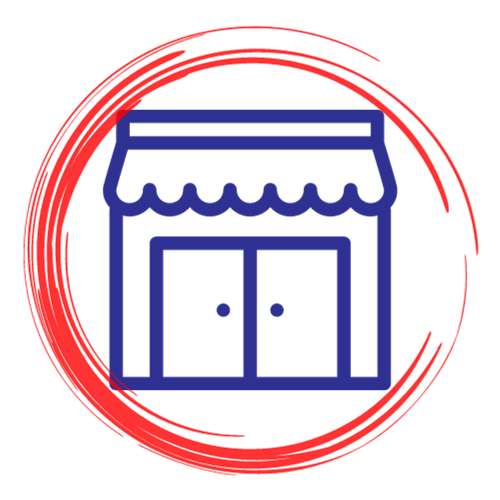
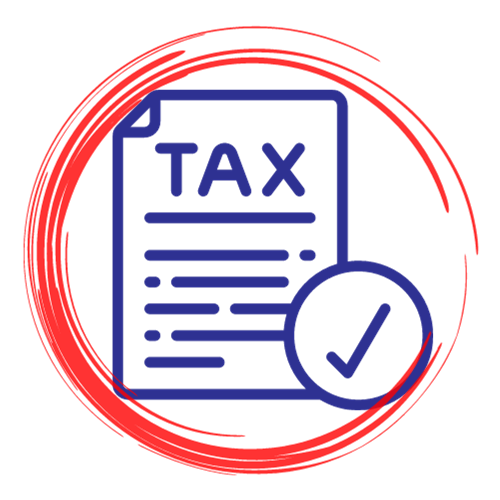
whys update

Changed region(s): [[0.18, 0.18, 0.87, 0.84]]

diff --git a/src/constants/data.js b/src/constants/data.js
@@ -3,13 +3,23 @@ import images from "./images";
 const services = [
     {
         imgUrl: images.serviceIcon1,
-        title: 'Business Advisory',
-        description: 'We’ll help you develop the right structure for your business that makes sure you are set up in the best way for where you want your business to go. Or if you have a good idea for a new business venture but don’t have expertise in the legal or financial aspects of creating a new business, we can help you:',
+        title: 'Tax Returns',
+        description: 'Navigating the intricacies of tax compliance can be a daunting task for individuals and businesses alike. At KAT Accounting Services, we provide comprehensive tax return services designed to alleviate the burden of tax preparation and ensure compliance while maximizing opportunities for deductions and savings.',
     },
     {
-        imgUrl: images.serviceIcon1,
-        title: 'Test 2',
-        description: 'Test ',
+        imgUrl: images.serviceIcon2,
+        title: 'Self Managed Super Funds',
+        description: 'We specialise in empowering Australians with tailored Self Managed Super Fund (SMSF) services. We provide compliance, personalized investment strategies, and ongoing support for SMSFs, allowing clients to take control of their retirement savings with confidence. From setup to ongoing advisory support, we provide comprehensive assistance, aiming to build lasting partnerships based on trust and expert financial guidance.',
+    },
+    {
+        imgUrl: images.serviceIcon3,
+        title: 'GST Management',
+        description: 'The GST system is a complex and confusing one. Consequently K.A.T. Accounting Services ensures our team remains up to date with any changes, enabling us to offer you accurate advice. Every transaction now has an associated GST issue. We are experienced in these issues and can offer expert advice on the GST implications for your business. The GST-related services we offer include, but are not limited to: advice on registering for GST, filing and adjusting GST returns and ATO audit assistance.',
+    },
+    {
+        imgUrl: images.serviceIcon4,
+        title: 'Investment Properties',
+        description: 'Within the realm of investment properties, effective management encompasses more than mere property upkeep. It involves astute financial oversight and strategic tax planning. At KAT Accounting Services, we recognize the critical role of accounting in maximizing returns and minimizing tax obligations for property investors.',
     },
 ]
 

diff --git a/src/components/services/services.css b/src/components/services/services.css
@@ -76,7 +76,7 @@
   min-width: 50px;
   min-height: 38px;
   background: var(--color-bluetext);
-  font-family: var(--font-secondary);
+  font-family: var(--font-tertiary);
   font-style: normal;
   font-weight: bold;
   font-size: 15px;
@@ -96,21 +96,22 @@
 }
 
 .kat__services-infocard-viewall button {
-    min-width: 30px;
-    min-height: 30px;
+    min-height: 50px;
+    color: #ffffff;
     background: var(--color-redtext);
-    font-family: var(--font-secondary);
+    font-family: var(--font-tertiary);
     font-style: normal;
     font-weight: bold;
-    font-size: 10px;
+    font-size: 20px;
     line-height: 27px;
+    padding: 0 1rem;
+    border-radius: 50px;
+    cursor: pointer;
 }
 
 @media screen and (max-width: 1130px ) {
     .kat__services-infocard-title p {
         font-size: 24px;
-        font-family: var(--font-secondary);
-        
     }
 
     .kat__services-infocard-feature img { 
@@ -157,14 +158,9 @@
     }
 
     .kat__services-infocard-button button {
-        min-width: 30px;
-        min-height: 30px;
-        background: var(--color-bluetext);
-        font-family: var(--font-secondary);
-        font-style: normal;
-        font-weight: bold;
-        font-size: 10px;
-        line-height: 27px;
-      }
+        min-width: 18px;
+        min-height: 18px;
+        font-size: 10px; 
+    }
 }
 

diff --git a/src/constants/images.js b/src/constants/images.js
@@ -1,11 +1,17 @@
 import tax from '../components/assets/frontcovergraphics.png';
 import logo from '../components/assets/logo.png';
 import serviceIcon1 from '../components/assets/servicegraphics1.png';
+import serviceIcon2 from '../components/assets/servicegraphics2.png';
+import serviceIcon3 from '../components/assets/servicegraphics3.png';
+import serviceIcon4 from '../components/assets/servicegraphics4.png';
 
 const assets = {
     tax, 
     logo,
     serviceIcon1,
+    serviceIcon2,
+    serviceIcon3,
+    serviceIcon4,
 };
 
 export default assets;

diff --git a/src/App.js b/src/App.js
@@ -1,6 +1,6 @@
 import React from 'react';
 
-import { Navbar, Header, Brand, Services } from "./components";
+import { Navbar, Header, Brand, Services, Whyus } from "./components";
 import "./App.css";
 
 const App = () => {
@@ -13,6 +13,7 @@ const App = () => {
       <Brand />
       <div className='parrallax__bg'>
         <Services />
+        <Whyus />
       </div>
     </div>
   )

diff --git a/src/components/services/Services.jsx b/src/components/services/Services.jsx
@@ -33,7 +33,7 @@ const Services = () => {
           {data.services.map((service) => <ServiceCard service={service} key={service.title} />)}
         </div>
         <div className="kat__services-infocard-viewall">
-          <button>Learn More</button>
+          <button>View All Services</button>
         </div>
       </div>
     </div>

diff --git a/src/components/whyus/Whyus.jsx b/src/components/whyus/Whyus.jsx
@@ -1,0 +1,14 @@
+import React from "react";
+import "./whyus.css";
+
+const Whyus = () => {
+    return (
+        <div className="section__padding">
+            <div className="kat__whyus-container kat__whyus-container-padding">
+                <p>Hello</p>
+            </div>
+        </div>
+    );
+}; 
+
+export default Whyus;

diff --git a/src/components/index.js b/src/components/index.js
@@ -2,3 +2,4 @@ export { default as Navbar } from "./navbar/Navbar";
 export { default as Header } from "./header/Header";
 export { default as Brand } from "./brand/Brand";
 export { default as Services } from "./services/Services";
+export { default as Whyus } from "./whyus/Whyus";

diff --git a/src/components/whyus/whyus.css b/src/components/whyus/whyus.css
@@ -1,0 +1,9 @@
+.kat__whyus-container {
+    border: 1px black;
+    border-radius: 30px;
+    background-color: #ffff;
+}
+
+.kat__whyus-container-padding {
+    padding: 2rem 3 rem;
+}
